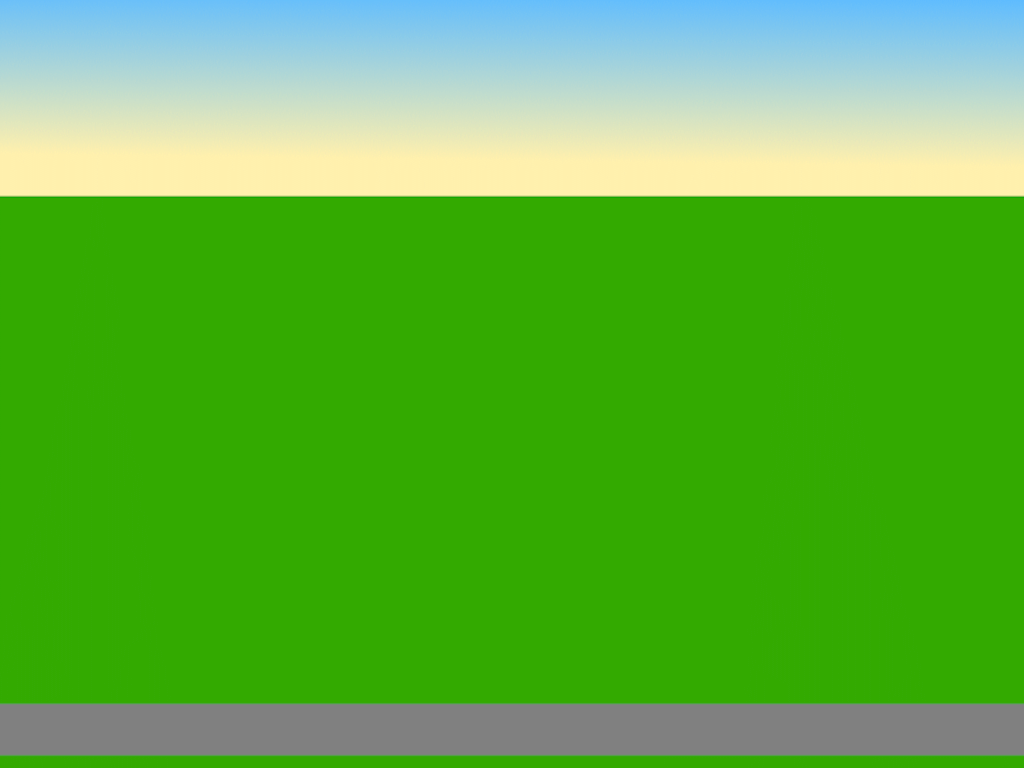
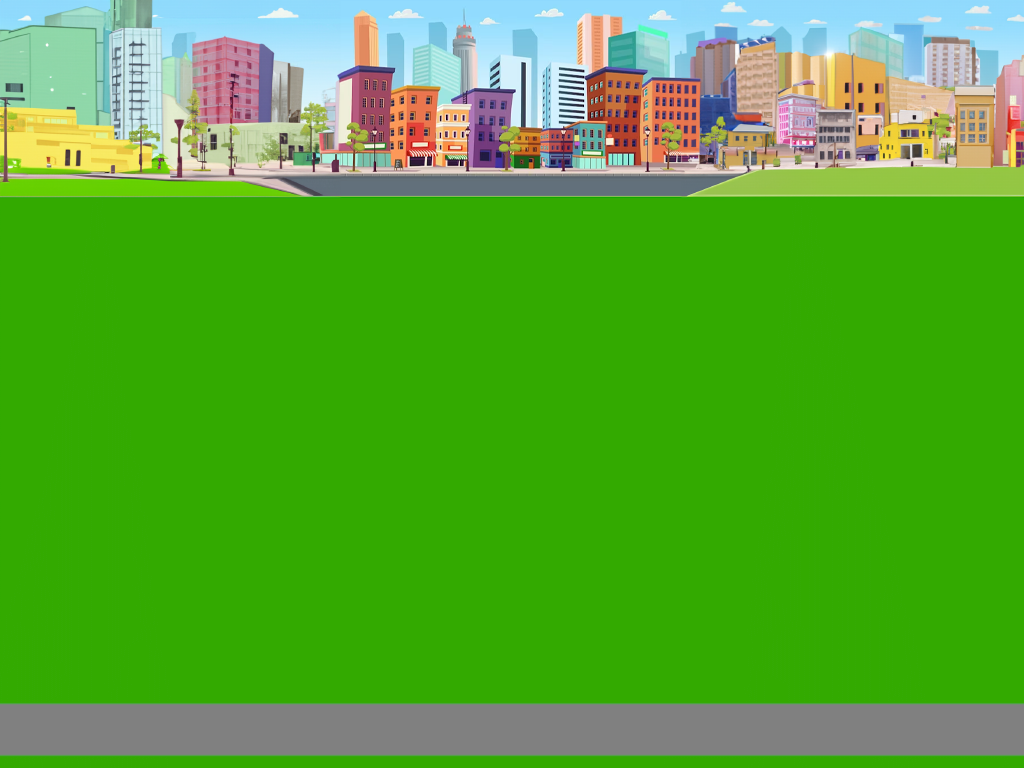
updated bg

Changed region(s): [[0.0, 0.0, 1.0, 0.2812]]

diff --git a/VehicleWorld.java b/VehicleWorld.java
@@ -91,7 +91,7 @@ public class VehicleWorld extends World
 
         // set up background -- If you change this, make 100% sure
         // that your chosen image is the same size as the World
-        background = new GreenfootImage ("background02.jpg");
+        background = new GreenfootImage ("background01.png");
         setBackground (background);
 
         // Set critical variables - will affect lane drawing

diff --git a/Bus.java b/Bus.java
@@ -22,7 +22,7 @@ public class Bus extends Vehicle
         maxSpeed = 1.5 + ((Math.random() * 10)/5);
         speed = maxSpeed;
         // because the Bus graphic is tall, offset it a up (this may result in some collision check issues)
-        yOffset = 15;
+        yOffset = 10;
     }
 
     /**
